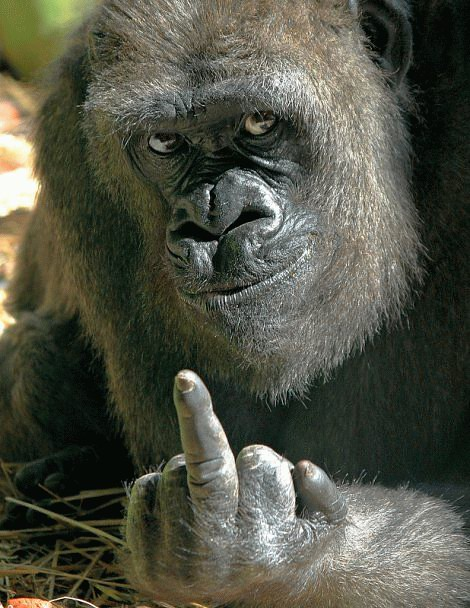
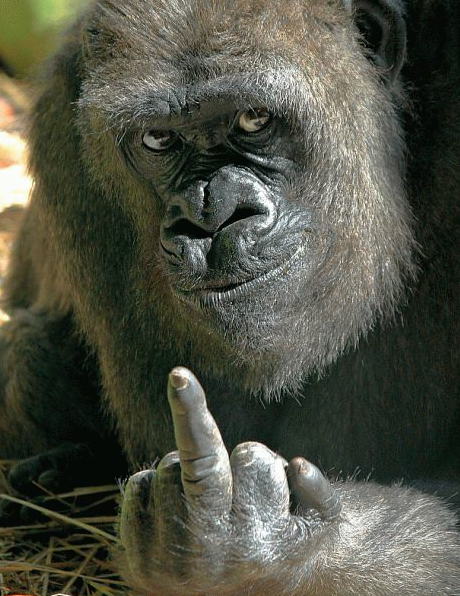
fix the photo

diff --git a/pc.html b/pc.html
@@ -111,17 +111,13 @@
     <div id="lock-error"></div>
   </div>
 
-  <!-- CONTENT (hidden until unlocked) -->
   <div id="pc-content">
     <img src="Images/lol.png" alt="thumb1" />
   </div>
 </div>
 
 <script>
-  // ============================================================
-  //  PASSWORD LOGIC – edit the password below
-  // ============================================================
-  const CORRECT_PASSWORD = "67underscore"; // <-- change this
+  const CORRECT_PASSWORD = "67underscore";
 
   const lockScreen = document.getElementById('lock-screen');
   const pcContent = document.getElementById('pc-content');
